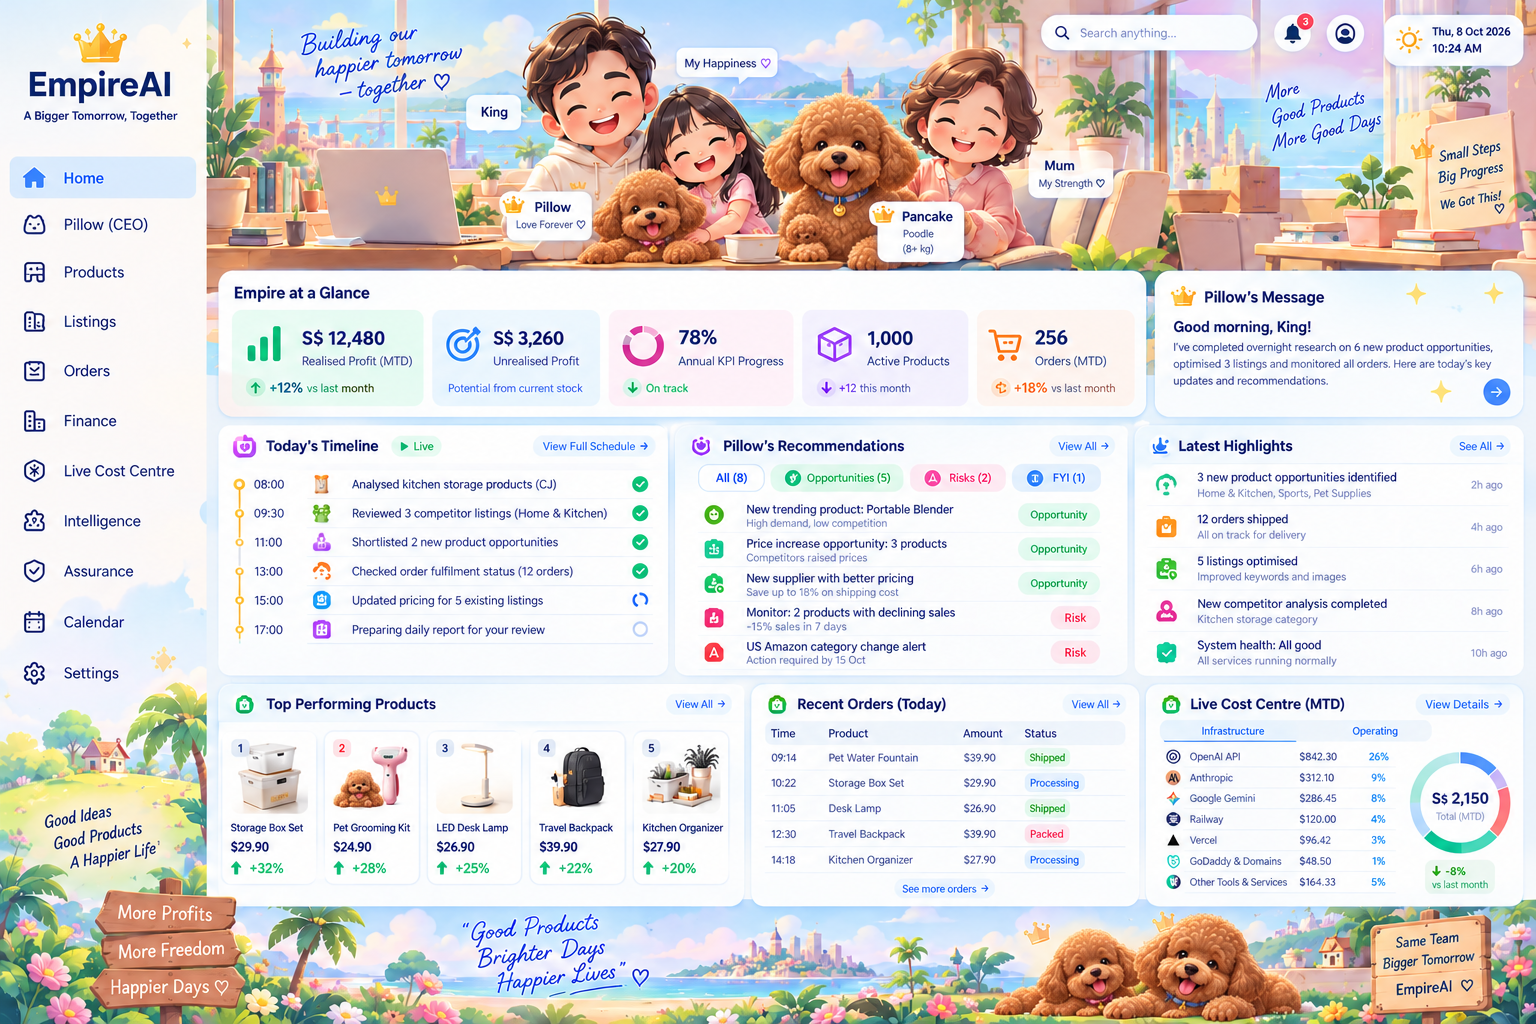
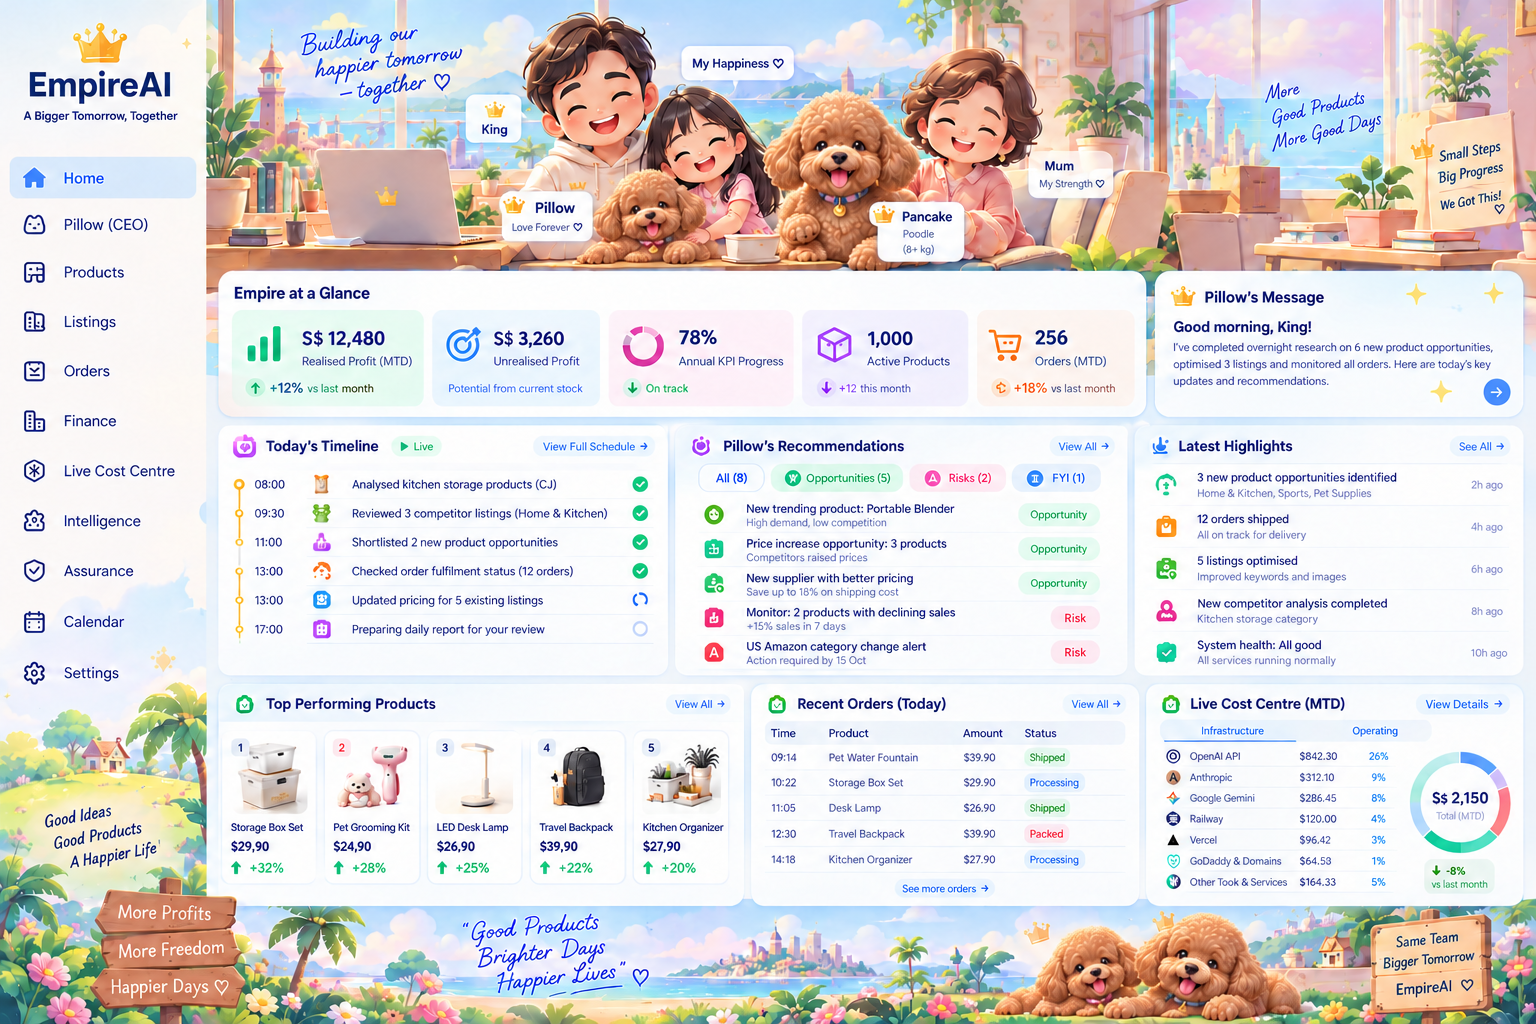
fix(owner): faithfully align approved Home and pin Work7 runtime

diff --git a/empireai-web/components/owner/work7/home.module.css b/empireai-web/components/owner/work7/home.module.css
@@ -5,3 +5,72 @@
 /* Crop only the approved scenery bands; never expose reference-image demo metrics. */
 @media(max-width:700px){.hero{aspect-ratio:1536/621;position:relative}.hero:after{content:'';position:absolute;right:0;top:0;width:27px;height:32px;background:linear-gradient(120deg,#cbe9f7,#e3eef8);border-bottom-left-radius:12px}.landscape{aspect-ratio:1536/283.2}}
 @media(min-width:1101px){.firstRow{height:140px}.firstRow .card{position:relative;padding:12px 14px}.firstRow .card header{margin-bottom:4px}.firstRow .card header h2{margin-bottom:3px}.firstRow .card p{font-size:10px;margin:3px 0;line-height:1.4}.firstRow .card h3{font-size:12px;margin:0}.firstRow .card .authority{font-size:9px}.metrics{height:91px}.metric{padding:10px 8px;gap:5px}.metric strong{font-size:14px}.metric>svg{width:25px;height:25px}.metric span{font-size:9px}.metric small{font-size:8px}.messageAction{position:absolute;right:12px;bottom:6px;font-size:0;min-height:26px;border-radius:50%;background:#e1efff;padding:6px}.messageAction svg{width:16px;height:16px}.middleRow{min-height:238px}.bottomRow .card{padding:12px}.bottomRow .empty{min-height:137px;padding:10px 8px}.bottomRow .costs{margin:7px 0}.bottomRow .costs div{padding:6px 0}.bottomRow .note{font-size:9px!important}.bottomRow .briefLink{margin-top:3px;min-height:24px}}
+
+/* Approved 1536 × 1024 composition, scaled proportionally on desktop.
+   Scenery stays in its original bands; every dashboard value remains live HTML. */
+@media(min-width:1101px){
+ .home{--u:calc(100vw / 1536);font-family:var(--font-inter),Arial,sans-serif;color:#071653}
+ .hero{aspect-ratio:1329/270;background-size:115.57562% auto}
+ .dashboard{padding:0 calc(12 * var(--u)) 0 calc(11 * var(--u));gap:calc(7 * var(--u))}
+ .firstRow{grid-template-columns:929fr 370fr;gap:calc(8 * var(--u));height:auto;min-height:calc(148 * var(--u))}
+ .middleRow{grid-template-columns:450fr 455fr 389fr;gap:calc(6 * var(--u));min-height:calc(252 * var(--u))}
+ .bottomRow{grid-template-columns:530fr 389fr 378fr;gap:calc(6 * var(--u));min-height:calc(222 * var(--u))}
+ .glance,.card{border-radius:calc(16 * var(--u));padding:calc(12 * var(--u)) calc(14 * var(--u));border-color:#d9edfc;box-shadow:0 2px 4px #7ab4dd20;background:linear-gradient(120deg,#ffffff,#f9fdff)}
+ .glance h2,.card h2{font-size:calc(16 * var(--u));font-weight:700;letter-spacing:-.45px;margin-bottom:calc(8 * var(--u));line-height:1.35}
+ .card header{align-items:center}.card header h2{gap:calc(8 * var(--u));white-space:nowrap}
+ .card h2 svg{width:calc(22 * var(--u));height:calc(22 * var(--u));padding:2px;border-radius:7px;background:#e7fff4;color:#00b86c}
+ .middleRow>.card:nth-child(1) h2 svg,.middleRow>.card:nth-child(2) h2 svg{color:#b522ee;background:#faeaff}
+ .middleRow>.card:nth-child(3) h2 svg{color:#197cff;background:#e8f4ff}
+ .firstRow .card h2 svg{color:#ffb200;background:#fff9dc}
+ .card header>a{font-size:calc(11 * var(--u));padding:3px 7px;line-height:1.4}
+ .metrics{height:calc(96 * var(--u));gap:calc(8 * var(--u))}
+ .metric{display:grid;grid-template-columns:calc(38 * var(--u)) minmax(0,1fr);grid-template-rows:1fr auto;padding:calc(12 * var(--u)) calc(9 * var(--u));gap:4px 5px;border-radius:calc(12 * var(--u));align-content:center}
+ .metric>svg{width:calc(35 * var(--u));height:calc(35 * var(--u));stroke-width:2.1}
+ .metric strong{font-size:calc(19 * var(--u));font-weight:700;letter-spacing:-.6px;line-height:1.1}
+ .metric span{font-size:calc(11 * var(--u));margin-top:calc(5 * var(--u));white-space:normal;line-height:1.3}
+ .metric small{grid-column:1/-1;font-size:calc(10 * var(--u));line-height:1.25;color:#286487;letter-spacing:-.15px}
+ .firstRow .card{padding:calc(12 * var(--u)) calc(17 * var(--u));background:linear-gradient(120deg,#fffeff,#f0faff)}
+ .firstRow .card h3{font-size:calc(14 * var(--u));font-weight:600;margin-top:calc(6 * var(--u))}
+ .firstRow .card p{font-size:calc(11 * var(--u));line-height:1.55}.firstRow .card .authority{font-size:calc(10 * var(--u))}
+ .firstRow .card header>a{display:none}
+ .messageAction{right:calc(14 * var(--u));bottom:calc(12 * var(--u));background:#3584ff;color:white;padding:6px;box-shadow:0 0 0 3px #e2f0ff}
+ .home .filters button{min-height:calc(28 * var(--u));padding:4px 10px;font-size:calc(11 * var(--u));line-height:1.2}
+ .filters{flex-wrap:nowrap;gap:5px}
+ .note{font-size:calc(10 * var(--u))!important;line-height:1.4}
+ .timeline{margin-top:calc(13 * var(--u))}.timeline li{font-size:calc(12 * var(--u));line-height:1.4}
+ .timeline time{width:calc(76 * var(--u))}.timeline small{font-size:calc(10 * var(--u))}
+ .recs li,.highlights li,.products li{font-size:calc(12 * var(--u));padding:calc(10 * var(--u)) 2px;gap:calc(10 * var(--u))}
+ .recs small,.highlights small,.products small{font-size:calc(11 * var(--u));margin-top:2px;line-height:1.35}
+ .recs strong,.highlights strong,.products strong{font-weight:500}
+ .highlights li:nth-child(2) svg{color:#ff9500}.highlights li:nth-child(3) svg{color:#c926b0}
+ .bottomRow .card{padding:calc(10 * var(--u)) calc(14 * var(--u))}
+ .bottomRow .empty{min-height:calc(159 * var(--u));padding:10px 5px}
+ .empty p,.card p{font-size:calc(12 * var(--u))}.empty a,.briefLink{font-size:calc(11 * var(--u))}
+ .costs{font-size:calc(11 * var(--u))}.bottomRow .costs div{padding:calc(8 * var(--u)) 0}
+ .landscape{aspect-ratio:1329/118;background-size:115.57562% auto;margin-top:0}
+}
+/* A bounded central family crop on phones keeps all five characters visible. */
+@media(max-width:700px){
+ .home{font-family:var(--font-inter),Arial,sans-serif}
+ .hero{aspect-ratio:690/270;background-size:222.6087% auto;background-position:52.6% top}
+ .hero:after{display:none}
+ .landscape{aspect-ratio:1329/118;background-size:115.57562% auto;background-position:right bottom}
+ .glance,.card{border-radius:14px}.card h2,.glance h2{font-weight:650;letter-spacing:-.35px}
+ .card h2 svg{padding:2px;border-radius:6px;background:#e8fff4}
+}
+@media(min-width:1101px){
+ .glance{padding-bottom:calc(8 * var(--u))}
+ .firstRow{height:calc(148 * var(--u));min-height:0}
+ .middleRow{height:calc(252 * var(--u));min-height:0}
+ .bottomRow{height:calc(222 * var(--u));min-height:0}
+ .bottomRow .empty{min-height:0;flex:1}
+ .bottomRow .card{display:flex;flex-direction:column}
+ .bottomRow .costs{margin:4px 0}.bottomRow .costs div{padding:calc(7 * var(--u)) 0}
+ .bottomRow .briefLink{margin-top:0;min-height:20px}
+ .messageAction{font-size:0;width:calc(28 * var(--u));height:calc(28 * var(--u));min-height:0;justify-content:center;padding:5px}
+}
+@media(max-width:700px){
+ .middleRow>.card:nth-child(1) h2 svg,.middleRow>.card:nth-child(2) h2 svg{color:#b522ee;background:#faeaff}
+ .middleRow>.card:nth-child(3) h2 svg{color:#197cff;background:#e8f4ff}
+ .firstRow .card h2 svg{color:#ffb200;background:#fff9dc}
+}

diff --git a/empireai-web/components/owner/OwnerShell.tsx b/empireai-web/components/owner/OwnerShell.tsx
@@ -2,16 +2,16 @@
 import {useEffect,useState} from 'react';
 import Link from 'next/link';
 import {usePathname} from 'next/navigation';
-import {Home,Dog,Package,PanelsTopLeft,ShoppingBag,Landmark,ChartNoAxesCombined,ScanEye,ShieldCheck,CalendarDays,Settings,ClipboardCheck,Menu,X,Crown,Search,MessageCircle} from 'lucide-react';
+import {Home,Dog,Package,PanelsTopLeft,ShoppingBag,Landmark,ChartNoAxesCombined,ScanEye,ShieldCheck,CalendarDays,Settings,ClipboardCheck,Menu,X,Crown,Search,MessageCircle,Bell} from 'lucide-react';
 import {useAuth} from '@/lib/auth/context';
 import {CockpitAuthGuard} from '@/components/cockpit/shell/CockpitAuthGuard';
 import s from './work7/shell.module.css';
 const destinations=[['Home','/cockpit',Home],['Pillow (CEO)','/cockpit/ceo',Dog],['Products','/cockpit/products',Package],['Listings','/cockpit/listings',PanelsTopLeft],['Orders','/cockpit/orders',ShoppingBag],['Finance','/cockpit/finance',Landmark],['Live Cost Centre','/cockpit/cost-centre',ChartNoAxesCombined],['Intelligence','/cockpit/eyes',ScanEye],['Assurance','/cockpit/assurance',ShieldCheck],['Approvals','/cockpit/approvals',ClipboardCheck],['Calendar','/cockpit/calendar',CalendarDays],['System','/cockpit/system',Settings]] as const;
 export function OwnerShell({children}:{children:React.ReactNode}){
  const path=usePathname(),{logout}=useAuth();const [open,setOpen]=useState(false),[search,setSearch]=useState('');const home=path==='/cockpit';
- return <CockpitAuthGuard><div className={s.shell} data-owner-theme="pastel"><a href="#owner-main" className={s.skip}>Skip to content</a>
+ return <CockpitAuthGuard><div className={`${s.shell} ${home?s.homeShell:''}`} data-owner-theme="pastel"><a href="#owner-main" className={s.skip}>Skip to content</a>
  <aside className={s.sidebar}><Link href="/cockpit" className={s.brand}><Crown aria-hidden="true"/><strong>EmpireAI</strong><span>A Bigger Tomorrow, Together</span></Link><nav aria-label="Owner navigation">{destinations.map(([label,href,Icon])=><Link key={href} href={href} aria-current={path===href||(href!=='/cockpit'&&path.startsWith(href+'/'))?'page':undefined}><Icon size={21} aria-hidden="true"/>{label}</Link>)}</nav><div className={s.sidebarArt} aria-hidden="true"/><button className={s.signout} onClick={()=>void logout()}>Sign out</button></aside>
- <div className={s.workspace}><header className={`${s.topbar} ${home?s.homeTopbar:''}`}><button className={s.menuButton} aria-label={open?'Close owner menu':'Open owner menu'} aria-expanded={open} onClick={()=>setOpen(!open)}>{open?<X/>:<Menu/>}</button><Link href="/cockpit" className={s.mobileBrand}>♛ EmpireAI</Link><div className={s.search}><Search size={17}/><input aria-label="Find an owner page" placeholder="Find a page…" value={search} onChange={e=>setSearch(e.target.value)}/>{search&&<div className={s.searchResults}>{destinations.filter(([label])=>label.toLowerCase().includes(search.toLowerCase())).map(([label,href])=><Link href={href} key={href} onClick={()=>setSearch('')}>{label}</Link>)}{!destinations.some(([label])=>label.toLowerCase().includes(search.toLowerCase()))&&<p>No matching page</p>}</div>}</div><Link className={s.message} href="/cockpit/advisor" aria-label="King’s Advisor communications"><MessageCircle size={23}/></Link><Clock/></header>
+ <div className={s.workspace}><header className={`${s.topbar} ${home?s.homeTopbar:''}`}><button className={s.menuButton} aria-label={open?'Close owner menu':'Open owner menu'} aria-expanded={open} onClick={()=>setOpen(!open)}>{open?<X/>:<Menu/>}</button><Link href="/cockpit" className={s.mobileBrand}>♛ EmpireAI</Link><div className={s.search}><Search size={17}/><input aria-label="Find an owner page" placeholder="Find a page…" value={search} onChange={e=>setSearch(e.target.value)}/>{search&&<div className={s.searchResults}>{destinations.filter(([label])=>label.toLowerCase().includes(search.toLowerCase())).map(([label,href])=><Link href={href} key={href} onClick={()=>setSearch('')}>{label}</Link>)}{!destinations.some(([label])=>label.toLowerCase().includes(search.toLowerCase()))&&<p>No matching page</p>}</div>}</div>{home&&<Link className={`${s.message} ${s.attention}`} href="/cockpit/ceo#recommendations" aria-label="Owner attention and recommendations"><Bell size={21}/></Link>}<Link className={s.message} href="/cockpit/advisor" aria-label="King’s Advisor communications"><MessageCircle size={23}/></Link><Clock/></header>
  {open&&<nav className={s.mobileMenu} aria-label="Cockpit mobile menu">{destinations.map(([label,href,Icon])=><Link key={href} href={href} onClick={()=>setOpen(false)} aria-current={path===href?'page':undefined}><Icon size={20}/>{label}</Link>)}<button onClick={()=>void logout()}>Sign out</button></nav>}
  <main id="owner-main" className={home?s.homeMain:s.main}>{children}</main><footer className={s.footer}>Private owner workspace · NOT_BORN · Commerce LOCKED <Link href="/cockpit/assurance">Inspect authority and evidence →</Link></footer></div>
  <nav className={s.bottomNav} aria-label="Mobile quick navigation">{[destinations[0],destinations[1],destinations[2],destinations[5]].map(([label,href,Icon])=><Link href={href} key={href} aria-current={path===href?'page':undefined}><Icon size={20}/>{label==='Pillow (CEO)'?'CEO':label}</Link>)}</nav></div></CockpitAuthGuard>;

diff --git a/empireai-web/components/owner/work7/shell.module.css b/empireai-web/components/owner/work7/shell.module.css
@@ -2,3 +2,33 @@
 @media(max-width:900px){.sidebar{width:174px}.workspace{margin-left:174px}.homeTopbar{width:calc(100% - 174px)}.sidebar nav a{font-size:12px;gap:10px}.brand strong{font-size:29px}.main{padding:10px 16px 24px}.search{width:160px}}
 @media(max-width:700px){.sidebar{display:none}.workspace{margin:0}.topbar,.homeTopbar{position:relative;width:100%;background:#f7fcff;padding:8px 12px;min-height:68px;gap:10px}.menuButton{display:block;background:#e6f1ff;border-radius:10px;padding:10px}.mobileBrand{display:block;font-weight:750;margin-right:auto;font-size:17px}.search,.message{display:none}.clock{min-width:0;font-size:9px;padding:6px 8px}.clock strong{font-size:10px}.mobileMenu{display:grid;grid-template-columns:1fr 1fr;padding:12px;gap:8px;background:white;border-bottom:1px solid #c8dced}.mobileMenu a,.mobileMenu button{display:flex;align-items:center;gap:9px;min-height:44px;background:#edf6ff;border-radius:8px;padding:10px;font-size:12px}.main{padding:16px 12px 24px}.footer{padding:16px 12px 86px;font-size:10px}.bottomNav{display:flex;position:fixed;bottom:0;left:0;right:0;z-index:50;background:#fcfefff5;backdrop-filter:blur(10px);border-top:1px solid #c3d9ee;padding-bottom:env(safe-area-inset-bottom)}.bottomNav a{flex:1;display:flex;flex-direction:column;align-items:center;justify-content:center;gap:4px;min-height:60px;font-size:11px}.bottomNav a[aria-current=page]{color:#0759d5;background:#e8f3ff}}
 @media(min-width:701px){.homeTopbar{width:auto;min-width:460px;min-height:58px;top:5px;right:9px;padding:6px 8px;background:#eef6ff;border-radius:20px;gap:12px}.homeTopbar .search{width:210px}.homeTopbar .clock{min-width:135px}}
+
+/* Home-only alignment to the approved reference; legacy pages keep their shell. */
+@media(min-width:1101px){
+ .homeShell{--u:calc(100vw / 1536);font-family:var(--font-inter),Arial,sans-serif}
+ .homeShell .sidebar{width:calc(207 * var(--u));background:#f5fbff url('/work7/approved-home-art.png') left top / 100vw auto no-repeat;border:0}
+ .homeShell .workspace{margin-left:calc(207 * var(--u))}
+ .homeShell .brand{height:calc(149 * var(--u));padding:0;color:transparent}
+ .homeShell .brand svg{opacity:0}.homeShell .brand strong,.homeShell .brand span{opacity:0}
+ .homeShell .sidebar nav{padding:0 calc(10 * var(--u));gap:calc(3 * var(--u));background:linear-gradient(#f6fafe,#faf9f5 70%,#f1f8fe)}
+ .homeShell .sidebar nav a{min-height:calc(44 * var(--u));padding:calc(8 * var(--u)) calc(12 * var(--u));gap:calc(17 * var(--u));font-size:calc(15 * var(--u));line-height:1.2;border-radius:calc(10 * var(--u))}
+ .homeShell .sidebar nav svg{width:calc(22 * var(--u));height:calc(22 * var(--u));stroke-width:1.9;flex-shrink:0}
+ .homeShell .sidebarArt{height:calc(310 * var(--u));margin:0;background:none}
+ .homeShell .signout{background:#eef7ffcc;min-height:36px}
+ .homeShell .homeTopbar{top:calc(14 * var(--u));right:calc(12 * var(--u));padding:0;min-height:0;min-width:0;background:transparent;border-radius:0;gap:calc(15 * var(--u))}
+ .homeShell .search{width:calc(215 * var(--u));padding:calc(6 * var(--u)) calc(12 * var(--u));box-shadow:0 2px 4px #718cbc30;font-size:calc(12 * var(--u))}
+ .homeShell .search input{min-height:calc(23 * var(--u))}
+ .homeShell .message{padding:calc(9 * var(--u));width:calc(38 * var(--u));height:calc(38 * var(--u));display:grid;place-items:center}
+ .homeShell .message svg{width:calc(21 * var(--u));height:calc(21 * var(--u))}
+ .homeShell .clock{min-width:calc(140 * var(--u));padding:calc(8 * var(--u)) calc(12 * var(--u));font-size:calc(10 * var(--u));border-radius:calc(14 * var(--u))}
+ .homeShell .clock strong{font-size:calc(11 * var(--u))}
+}
+
+@media(min-width:1101px){
+ .homeShell .homeTopbar{gap:calc(18 * var(--u))}
+ .homeShell .clock{height:calc(52 * var(--u));background:#fbfdff}
+ .homeShell .attention{position:relative;isolation:isolate}
+ .homeShell .attention:before{content:'';position:absolute;inset:calc(-7 * var(--u));border-radius:50%;background:#eee9fa;z-index:-1}
+ .homeShell .attention svg{fill:#092660;stroke:#092660}
+}
+@media(min-width:1101px){.homeShell .attention:before{display:none}}

diff --git a/empireai-web/lib/owner/runtime-release-identity.test.ts b/empireai-web/lib/owner/runtime-release-identity.test.ts
@@ -3,7 +3,7 @@ import assert from 'node:assert/strict';
 import {expectedBackendRevision,verifyOwnerRuntime} from './runtime-identity.mjs';
 
 test('owner verification requires the exact release and every locked readiness invariant',()=>{
- assert.equal(expectedBackendRevision,'353ed974499a2bc78751de0156854117d6185a7d');
+ assert.equal(expectedBackendRevision,'8f3915a182d9a3fe42cbbf751d0e119b6ab6a6c0');
  const identity={deploy:{gitCommitSha:expectedBackendRevision}};
  const state={ready:true,birth:'NOT_BORN',commerce:'LOCKED',operational:false,readinessScope:'transport_and_storage_only'};
  assert.equal(verifyOwnerRuntime(identity,state),true);

diff --git a/docs/work7/home-owner-review.md b/docs/work7/home-owner-review.md
@@ -1,24 +1,9 @@
-# Work 7 Home visual acceptance — pending owner decision
+# Work 7 Home implementation correction
 
-This is a review of the implemented application, not a production-completion receipt.
+The owner directive at 2026-10-09 21:29 SGT supersedes the earlier request for repeated visual approval. The original approved PNG remains the specification. No new design approval gate applies.
 
-The original 20-module mandate, V5 visual contract and all 15 safety additions remain in force. No Work 8 certification is claimed.
+Corrected the family poses and scenery from the original reference with only brown-poodle/caption edits; removed baked top controls so real controls replace them. Desktop layout now scales from the reference 1536x1024 geometry: sidebar207, hero270, row heights148/252/222 and gaps7. Live data remains HTML; reference financial illustrations are never exposed in rendered panels. Mobile keeps all five family members in a bounded central crop.
 
-## Concrete candidate
+Targeted production-build browser checks passed at390/1440: Home links and truthful states, navigation/search/keyboard menu, geometric comparison within3px of scaled reference row boundaries, no horizontal overflow, no clipped live panels and no illustrative financial figures. Image identity is visually compared; pixel-perfect raster identity is not claimed for authorised edits.
 
-See `J1-home__AUTHENTICATED_TEST__1440.png` and `J1-home__AUTHENTICATED_TEST__390.png` in the evidence package. These are authenticated loopback test renders with explicitly isolated data, not production screenshots.
-
-The Home retains the family illustration, illustrated sidebar and landscape, pastel identity, Empire at a Glance, Pillow's Message, timeline, recommendations, highlights, products, orders and cost panels. Both dogs are brown and the authorised family captions have been corrected. Functional navigation, search, Singapore clock and detail links replace reference artwork controls. Reference financial figures and products are never presented as real data.
-
-## Differences requiring owner review
-
-- The flat supplied illustration has been reconstructed for the authorised dog/caption corrections. Small differences in illustration details remain; pixel-perfect identity is not claimed.
-- Application typography, icons, card widths, padding and vertical proportions differ from the reference. The twelve functional destinations include Approvals and System.
-- Desktop artwork is cropped into header, sidebar and footer bands. At 390px, the illustration is cropped and panels stack vertically with a mobile menu and bottom navigation.
-- Truthful pre-Birth and unavailable-data states replace the reference's sample profits, sales, products and activity. Test-rendered synthetic evidence remains explicitly labelled.
-
-The original mandate sections 02 and 20 require owner acceptance of meaningful nonapproved visual differences. Requested decision: accept these specific desktop/mobile Home differences for the Work 7 release, or identify the differences to correct. This decision grants no Birth, commerce, financial or security authority.
-
-## Retained release gates
-
-Backend PR97 and the frontend candidate still require their normal hosted gates and coordinated release. Runtime revision pinning must use the actual merged backend SHA. Production readback, protected-record preservation, original-volume verification, lease reconciliation and independent King's Advisor COMPLETE receipt are still required after release. This review does not substitute for those checks.
+Preserves all other owner journeys,15safetyprotections,backend contracts and record formats. NOT_BORN and commerce LOCKED remain. No Work8/9 completion claimed.
